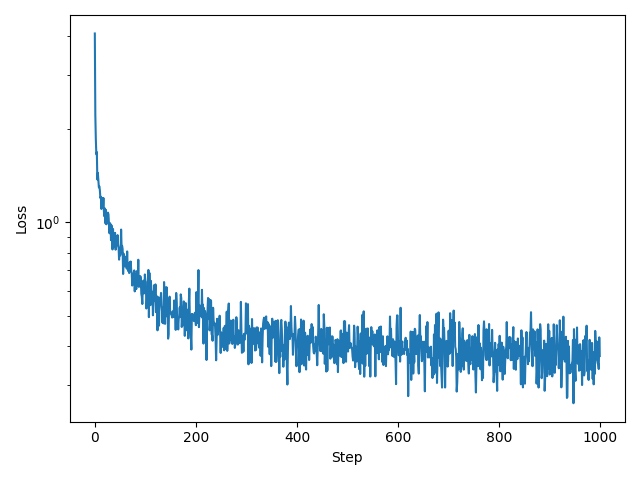
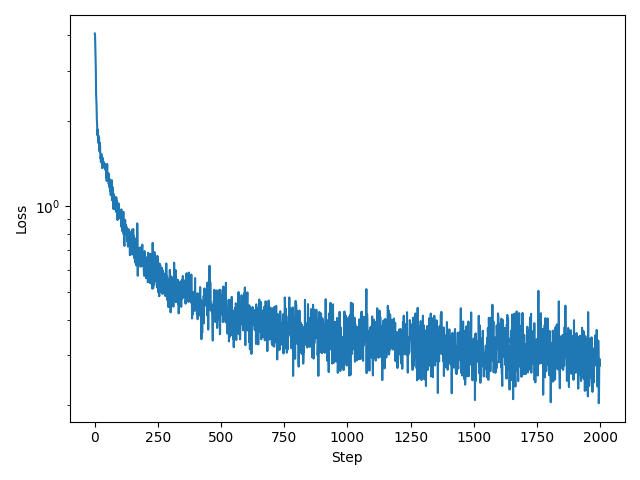
implemented a tfilm unet with a transformer instead of an lstm

diff --git a/src/diffusion_models/utils/visualizations.py b/src/diffusion_models/utils/visualizations.py
@@ -4,7 +4,7 @@ from torchvision.utils import make_grid
 
 from diffusion_models.dynamics.prob_paths import GaussianConditionalProbabilityPath, ConditionalProbabilityPath
 from diffusion_models.dynamics.schedules import LinearAlpha, LinearBeta
-from diffusion_models.data.synthetic import MNISTSampler
+from diffusion_models.data.loaders import MNISTSampler
 from diffusion_models.data.synthetic import SineWaveSampler, WaveSampler
 from diffusion_models.dynamics.base import CFGVectorFieldODE, ConditionalVectorField
 from diffusion_models.dynamics.simulators import EulerSimulator
@@ -169,7 +169,7 @@ def visualize_wave_path():
     plt.tight_layout()
     plt.show()
 
-def visualize_generated_mnist_samples(path: ConditionalProbabilityPath, model: ConditionalVectorField):
+def visualize_generated_mnist_samples(path: ConditionalProbabilityPath, model: ConditionalVectorField, null_class: int = 0):
     samples_per_class = 10
     num_timesteps = 100
     guidance_scales = [1.0, 3.0, 5.0]
@@ -189,7 +189,7 @@ def visualize_generated_mnist_samples(path: ConditionalProbabilityPath, model: C
 
         # Simulate
         ts = torch.linspace(0,1,num_timesteps).view(1, -1, 1, 1, 1).expand(num_samples, -1, 1, 1, 1).to(device)
-        x1 = simulator.simulate(x0, ts, y=y)
+        x1 = simulator.simulate(x0, ts, y=y, null_class=null_class)
 
         # Plot
         grid = make_grid(x1, nrow=samples_per_class, normalize=True, value_range=(-1,1))
@@ -201,7 +201,8 @@ def visualize_generated_mnist_samples(path: ConditionalProbabilityPath, model: C
 def visualize_generated_sine_waves(model: ConditionalVectorField,
                                    samples_per_amplitude: int = 3,
                                    num_timesteps: int = 100,
-                                   guidance_scales = (1.0,)):
+                                   guidance_scales = (1.0,),
+                                   null_class: int = 0):
     """
     Generate sine waves per amplitude class via the trained model, and plot them grouped by amplitude.
     
@@ -210,6 +211,7 @@ def visualize_generated_sine_waves(model: ConditionalVectorField,
         - samples_per_amplitude: number of samples to generate per amplitude class
         - num_timesteps: number of time steps for ODE simulation
         - guidance_scales: tuple of guidance scale values to test
+        - null_class: the null class label for classifier-free guidance
     """
     model.eval()
 
@@ -238,7 +240,7 @@ def visualize_generated_sine_waves(model: ConditionalVectorField,
         for col_idx, w in enumerate(guidance_scales):
             ode = CFGVectorFieldODE(model, guidance_scale=float(w))
             simulator = EulerSimulator(ode)
-            x1 = simulator.simulate(x0.clone(), ts, y=amplitude_values)  # (bs, 1, L)
+            x1 = simulator.simulate(x0.clone(), ts, y=amplitude_values, null_class=null_class)  # (bs, 1, L)
 
             # Plot samples grouped by amplitude class
             for class_idx, amplitude in enumerate(amplitudes):
@@ -270,7 +272,8 @@ def visualize_generated_sine_waves(model: ConditionalVectorField,
 def visualize_generated_waves(model: ConditionalVectorField,
                              samples_per_amplitude: int = 1,
                              num_timesteps: int = 100,
-                             guidance_scales = (1.0,)):
+                             guidance_scales = (1.0,),
+                             null_class: int = 0):
     """
     Generate waves per amplitude class via the trained model, showing each channel separately.
     
@@ -279,6 +282,7 @@ def visualize_generated_waves(model: ConditionalVectorField,
         - samples_per_amplitude: number of samples to generate per amplitude class
         - num_timesteps: number of time steps for ODE simulation
         - guidance_scales: tuple of guidance scale values to test
+        - null_class: the null class label for classifier-free guidance
     """
     model.eval()
 
@@ -308,7 +312,7 @@ def visualize_generated_waves(model: ConditionalVectorField,
         for col_idx, w in enumerate(guidance_scales):
             ode = CFGVectorFieldODE(model, guidance_scale=float(w))
             simulator = EulerSimulator(ode)
-            x1 = simulator.simulate(x0.clone(), ts, y=amplitude_values)  # (bs, 3, L)
+            x1 = simulator.simulate(x0.clone(), ts, y=amplitude_values, null_class=null_class)  # (bs, 3, L)
 
             # Plot samples grouped by amplitude class and channel
             for class_idx, amplitude in enumerate(amplitudes):

diff --git a/src/diffusion_models/architectures/tfilm_unet.py b/src/diffusion_models/architectures/tfilm_unet.py
@@ -66,3 +66,64 @@ class TFiLMUNet(nn.Module):
 
         x = self.final_conv(x)
         return x
+    
+class TFiLMUNetTransformer(nn.Module):
+    """
+    UNet with TFiLM conditioning for 1D signals (using Transformer-based TFiLM blocks)
+    """
+    def __init__(self, channels: List[int], num_residual_layers: int, num_tfilm_blocks: int, num_classes: int, cond_dim: int, input_channels: int = 3): 
+        super().__init__()
+        self.init_conv = nn.Sequential(
+            nn.Conv1d(input_channels, channels[0], kernel_size=3, padding=1),
+            nn.BatchNorm1d(channels[0]),
+            nn.SiLU()
+        )
+        self.conditioner = Conditioner(
+            num_classes=num_classes,  # e.g., 3 for amplitude classes
+            t_dim=64,               # time embedding dimension
+            y_dim=16,               # class embedding dimension
+            cond_dim=cond_dim        # final conditioning dimension
+        )
+
+        # Encoders and Decoders
+        encoders = []
+        decoders = []
+        for (curr_c, next_c) in zip(channels[:-1], channels[1:]):
+            encoders.append(TFiLMEncoder(curr_c, next_c, num_residual_layers, num_tfilm_blocks, cond_dim, use_transformer=True))
+            decoders.append(TFiLMDecoder(next_c, curr_c, num_residual_layers, num_tfilm_blocks, cond_dim, use_transformer=True))
+        self.encoders = nn.ModuleList(encoders)
+        self.decoders = nn.ModuleList(reversed(decoders))
+
+        self.midcoder = TFiLMMidcoder(channels[-1], num_residual_layers, num_tfilm_blocks, cond_dim, use_transformer=True)
+        self.final_conv = nn.Conv1d(channels[0], input_channels, kernel_size=3, padding=1)
+
+    def forward(self, x: torch.Tensor, t: torch.Tensor, y: torch.Tensor):
+        """
+        Args:
+        - x: (bs, 1, L)
+        - t: (bs, 1, 1) -> will be squeezed to (bs,)
+        - y: (bs, 1) amplitude class labels
+        Returns:
+        - u_t^theta(x|y): (bs, 1, L)
+        """
+        # Get unified conditioning vector
+        t = t.squeeze(-1).squeeze(-1)  # (bs,)
+        y = y.squeeze(-1)  # (bs,)
+        cond = self.conditioner(t, y)  # (bs, cond_dim)
+        
+        x = self.init_conv(x)
+        residuals = []
+        
+        for encoder in self.encoders:
+            x = encoder(x, cond)
+            residuals.append(x.clone())
+
+        x = self.midcoder(x, cond)
+
+        for decoder in self.decoders:
+            res = residuals.pop()
+            x = x + res
+            x = decoder(x, cond)
+
+        x = self.final_conv(x)
+        return x

diff --git a/src/diffusion_models/models/tfilm/wave_diff_transformer.py b/src/diffusion_models/models/tfilm/wave_diff_transformer.py
@@ -1,6 +1,6 @@
 import torch
 
-from diffusion_models.architectures.tfilm_unet import TFiLMUNet
+from diffusion_models.architectures.tfilm_unet import TFiLMUNetTransformer
 from diffusion_models.dynamics.prob_paths import GaussianConditionalProbabilityPath
 from diffusion_models.dynamics.schedules import LinearAlpha, LinearBeta
 from diffusion_models.data.synthetic import WaveSampler
@@ -18,7 +18,7 @@ path = GaussianConditionalProbabilityPath(
 ).to(device)
 
 # initialize model
-net = TFiLMUNet(
+net = TFiLMUNetTransformer(
     channels = [32, 64, 128],
     num_residual_layers = 2,
     cond_dim=64,
@@ -31,4 +31,4 @@ trainer = CFGTrainer(path = path, model = net, eta=0.1, null_label=0)
 trainer.train(num_epochs = 2000, device=device, lr=1e-3, batch_size=250)
 
 # visualize generated waves
-# visualize_generated_waves(model=net, guidance_scales=(1.0, 2.0, 4.0))
+visualize_generated_waves(model=net, guidance_scales=(1.0, 2.0, 4.0))
